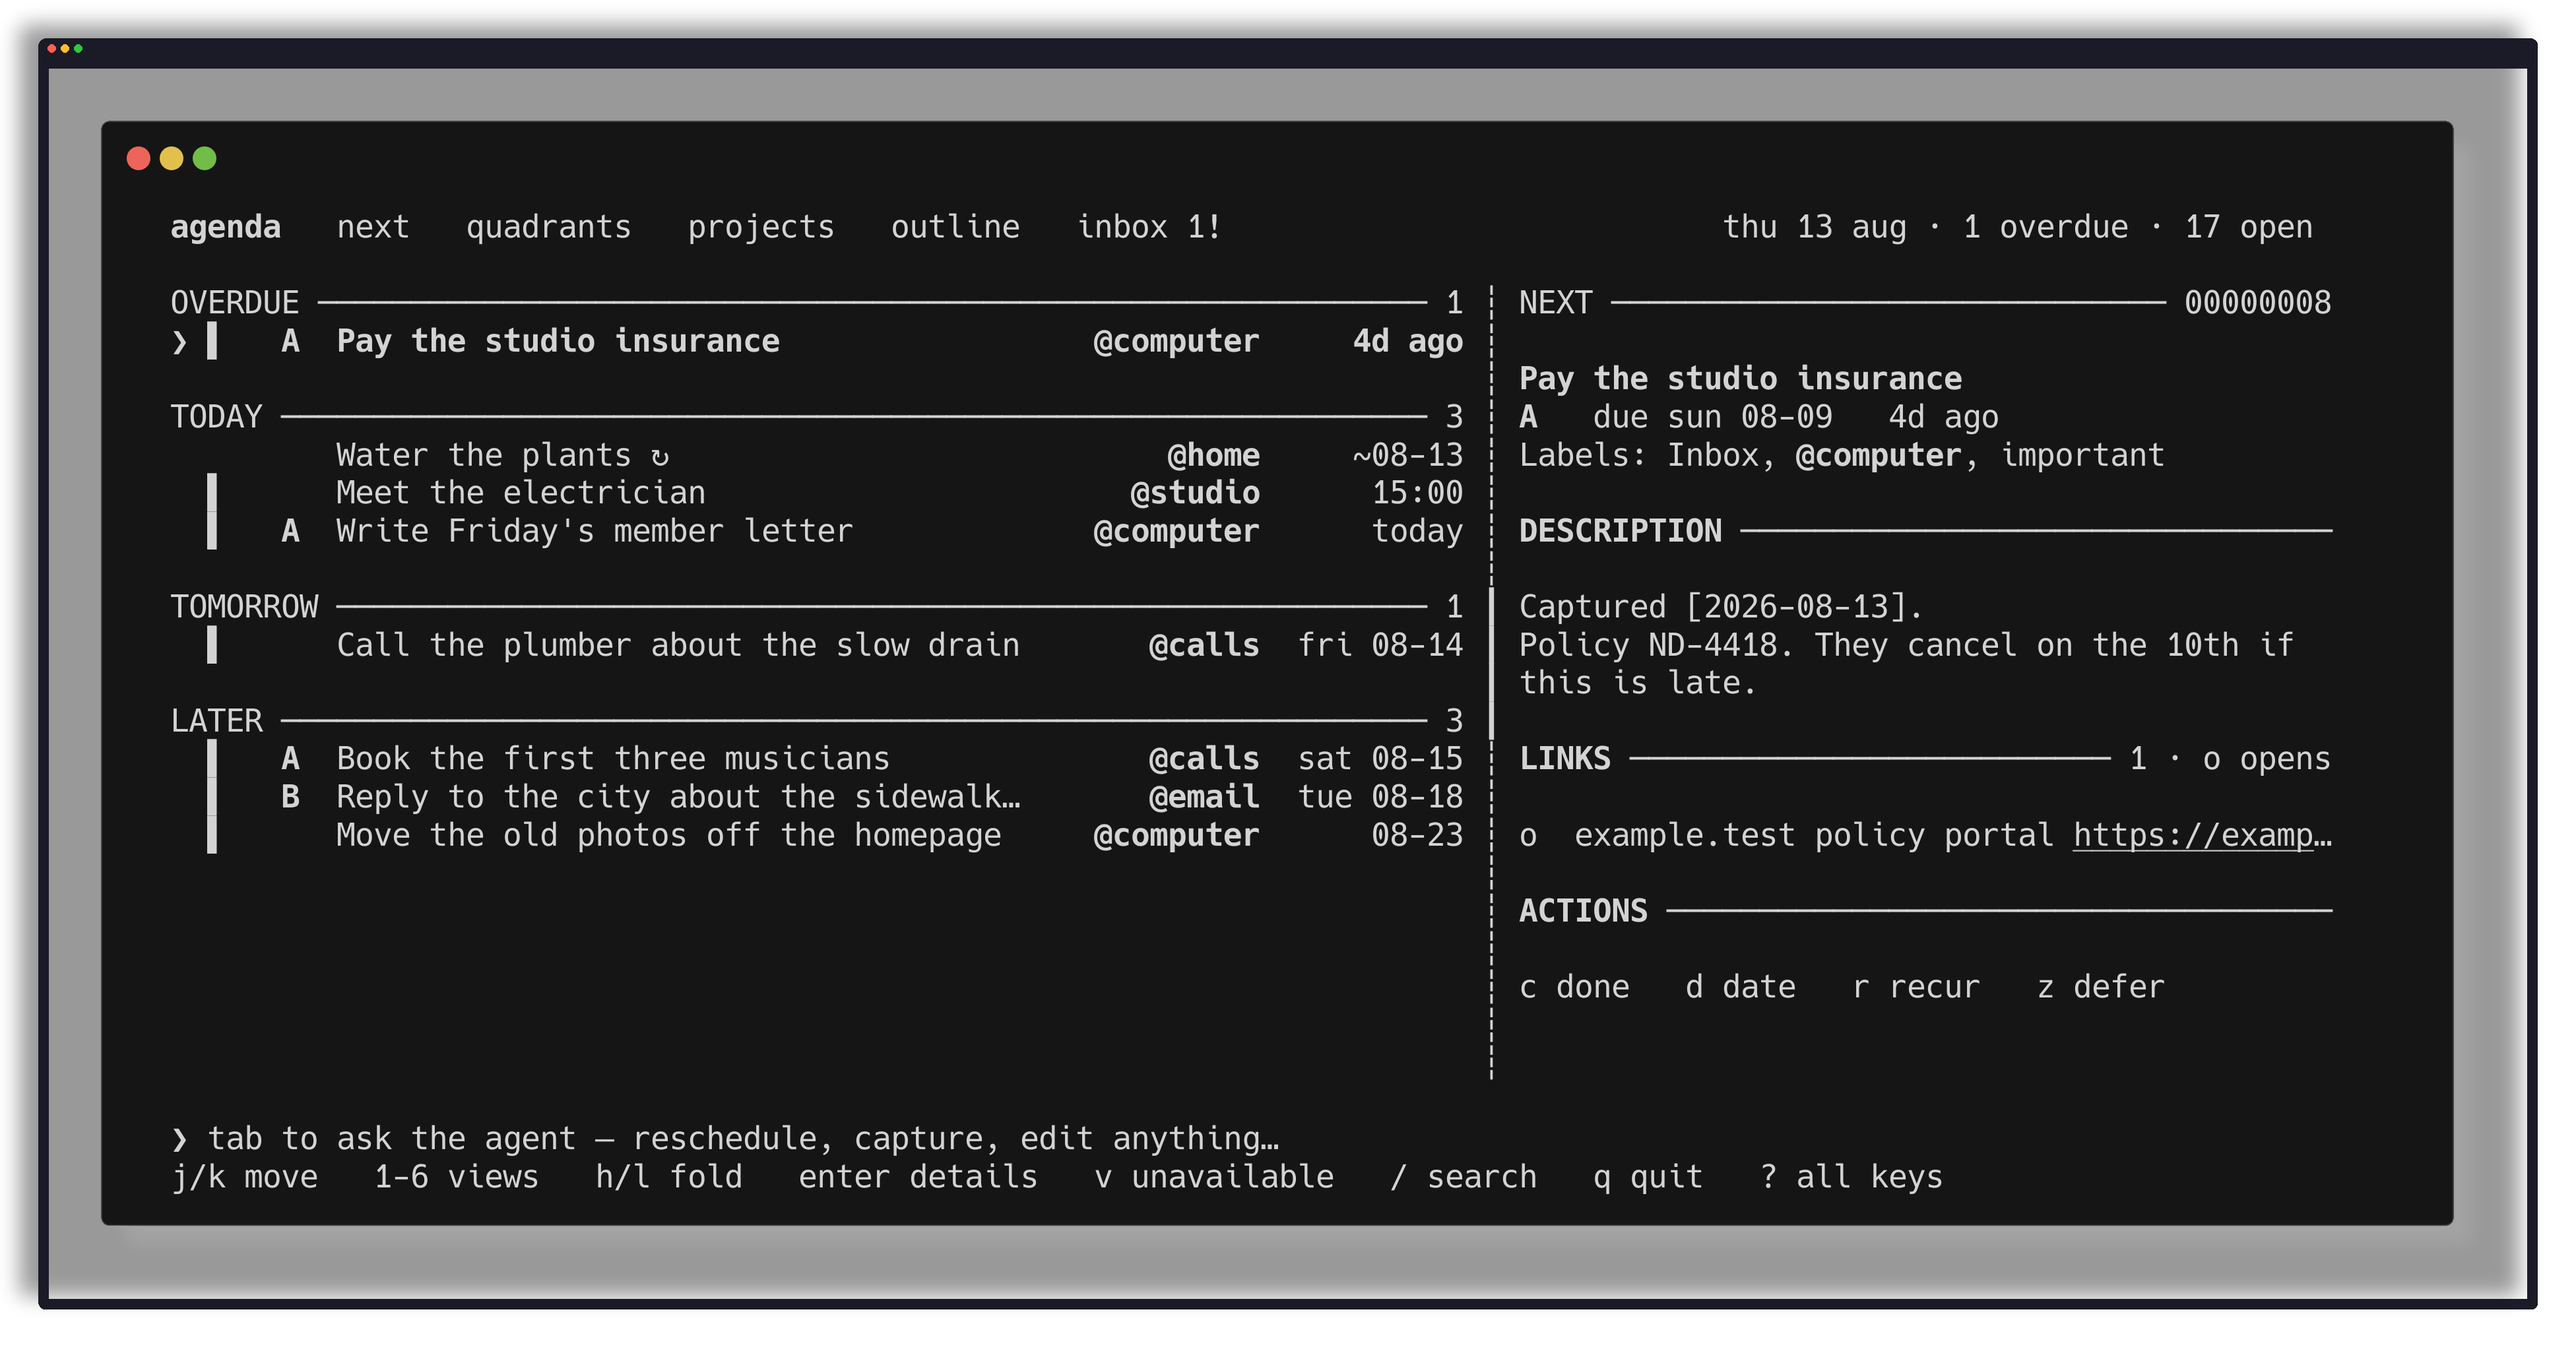
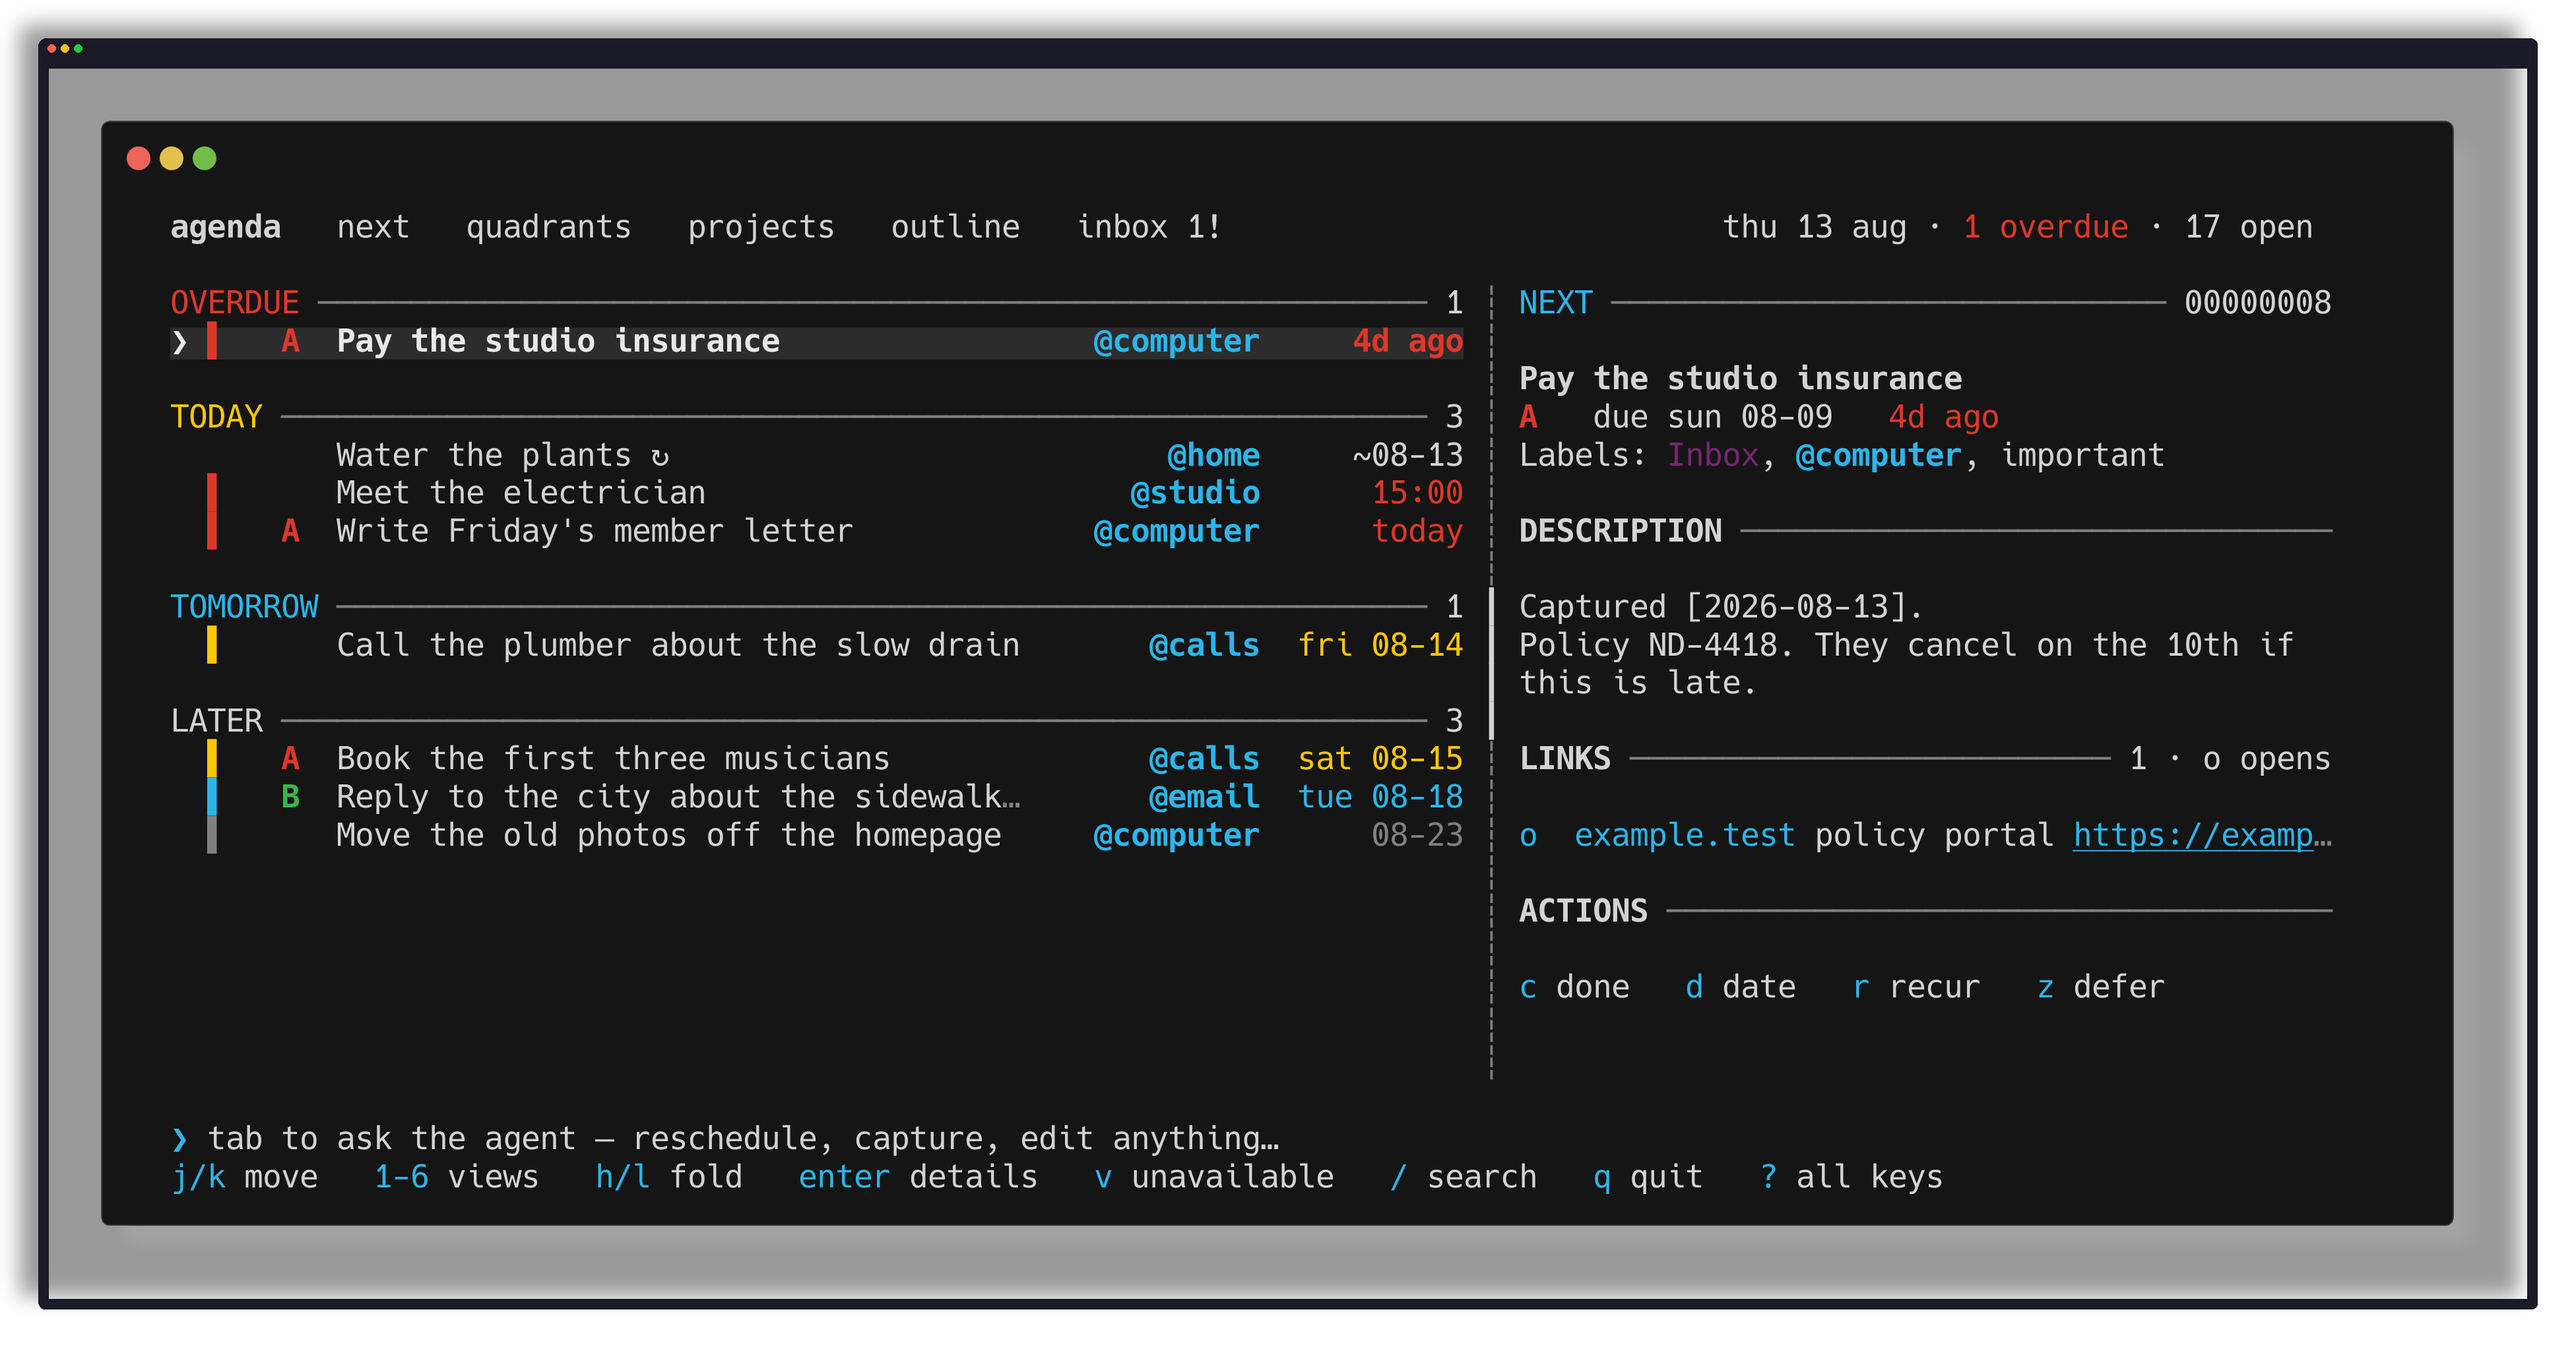
Force a truecolor profile for README screenshot captures.
Agent and CI shells often run as TERM=dumb with NO_COLOR=1, which made
Bubble Tea render the TUI as attributes-only. The capture wrappers now
unset NO_COLOR and pin TERM/COLORTERM so make screenshots stays in color.

diff --git a/docs/demo/README.md b/docs/demo/README.md
@@ -20,3 +20,8 @@ TASKS_SCREENSHOT_NOW=2026-11-03T12:00:00-08:00 make screenshots
 
 Betamax runs on its own tmux socket (`-L betamax`), not the machine’s
 default tmux server.
+
+The capture wrappers force `TERM=xterm-256color` and `COLORTERM=truecolor`
+and unset `NO_COLOR`. Agent and CI shells often run as `TERM=dumb` with
+`NO_COLOR=1`; without that profile the TUI downconverts to attributes
+only and the README image comes out monochrome.
